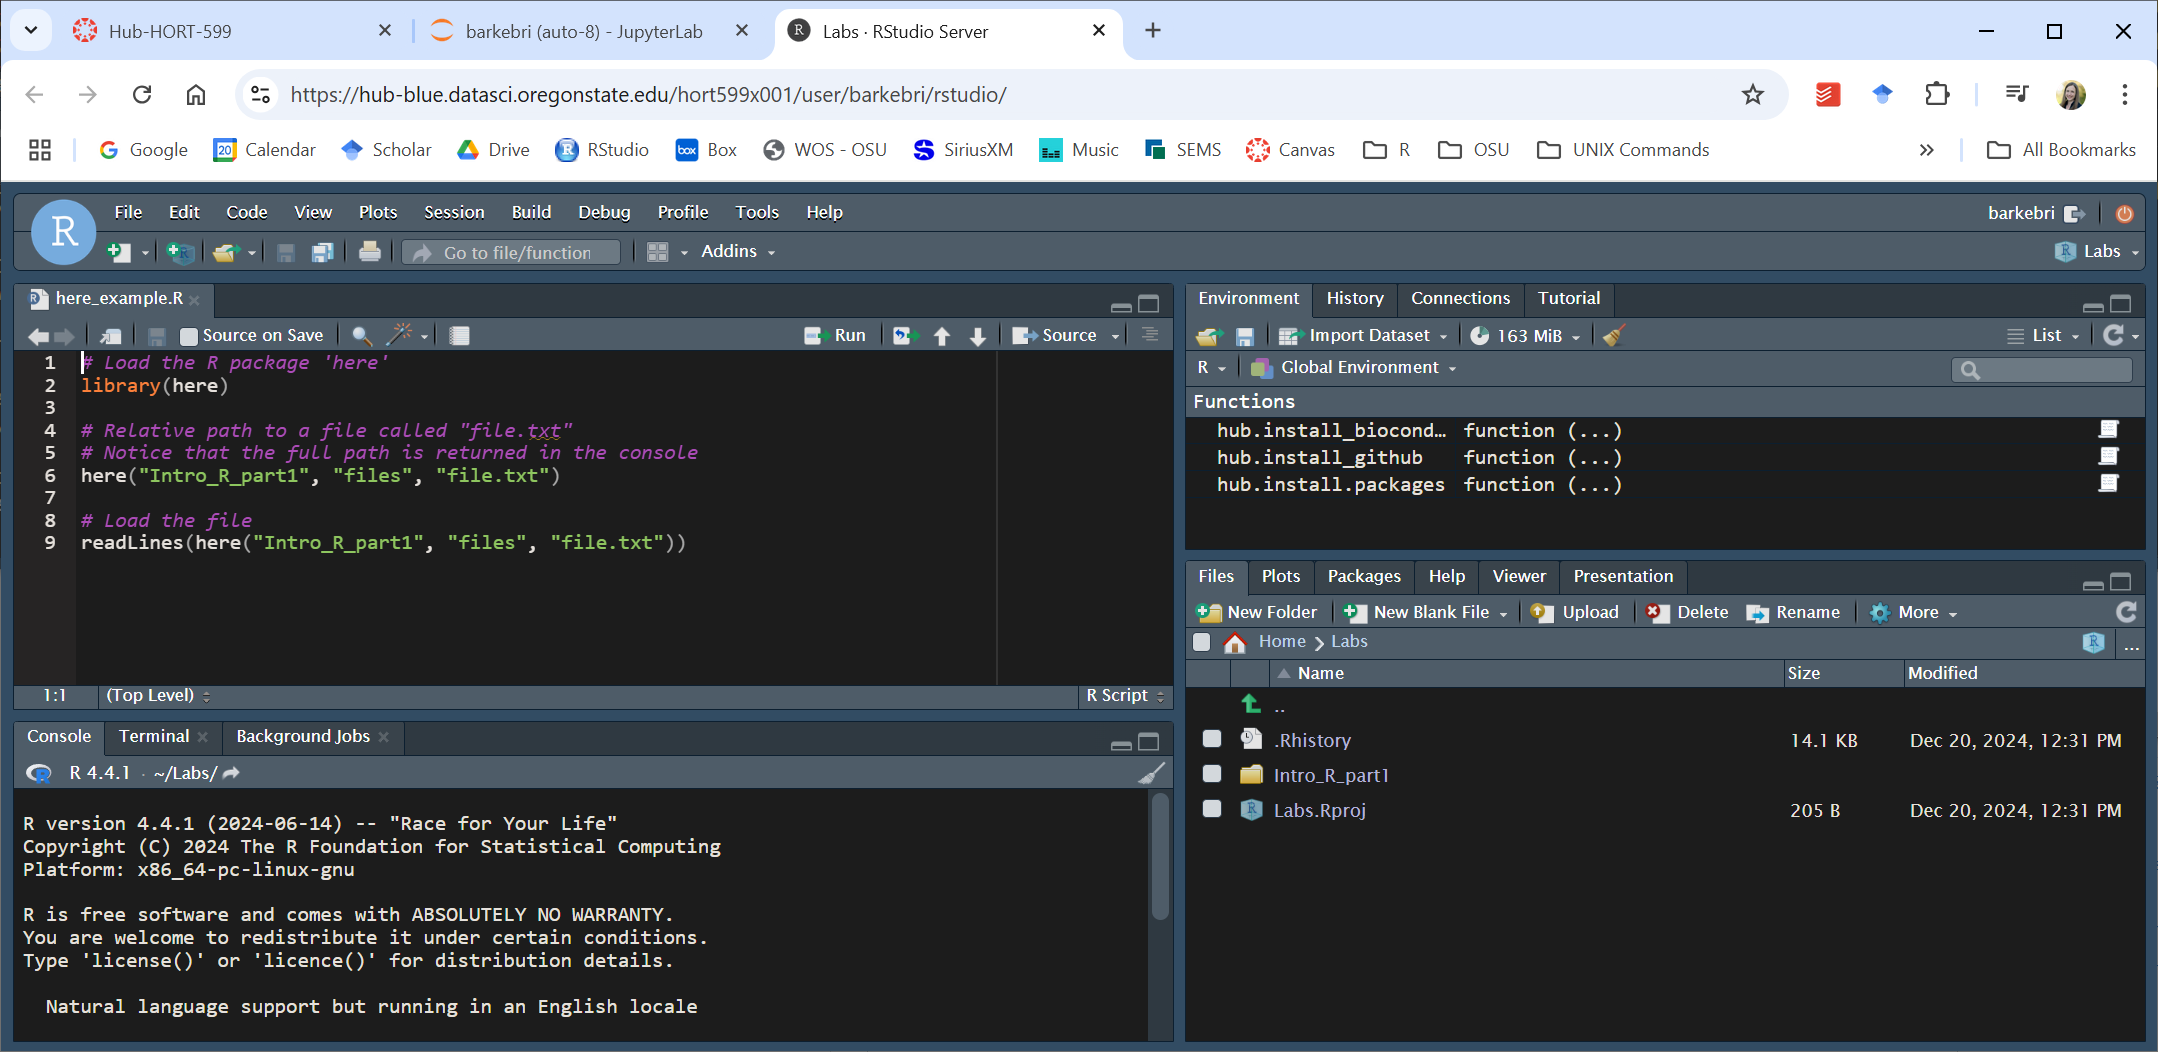
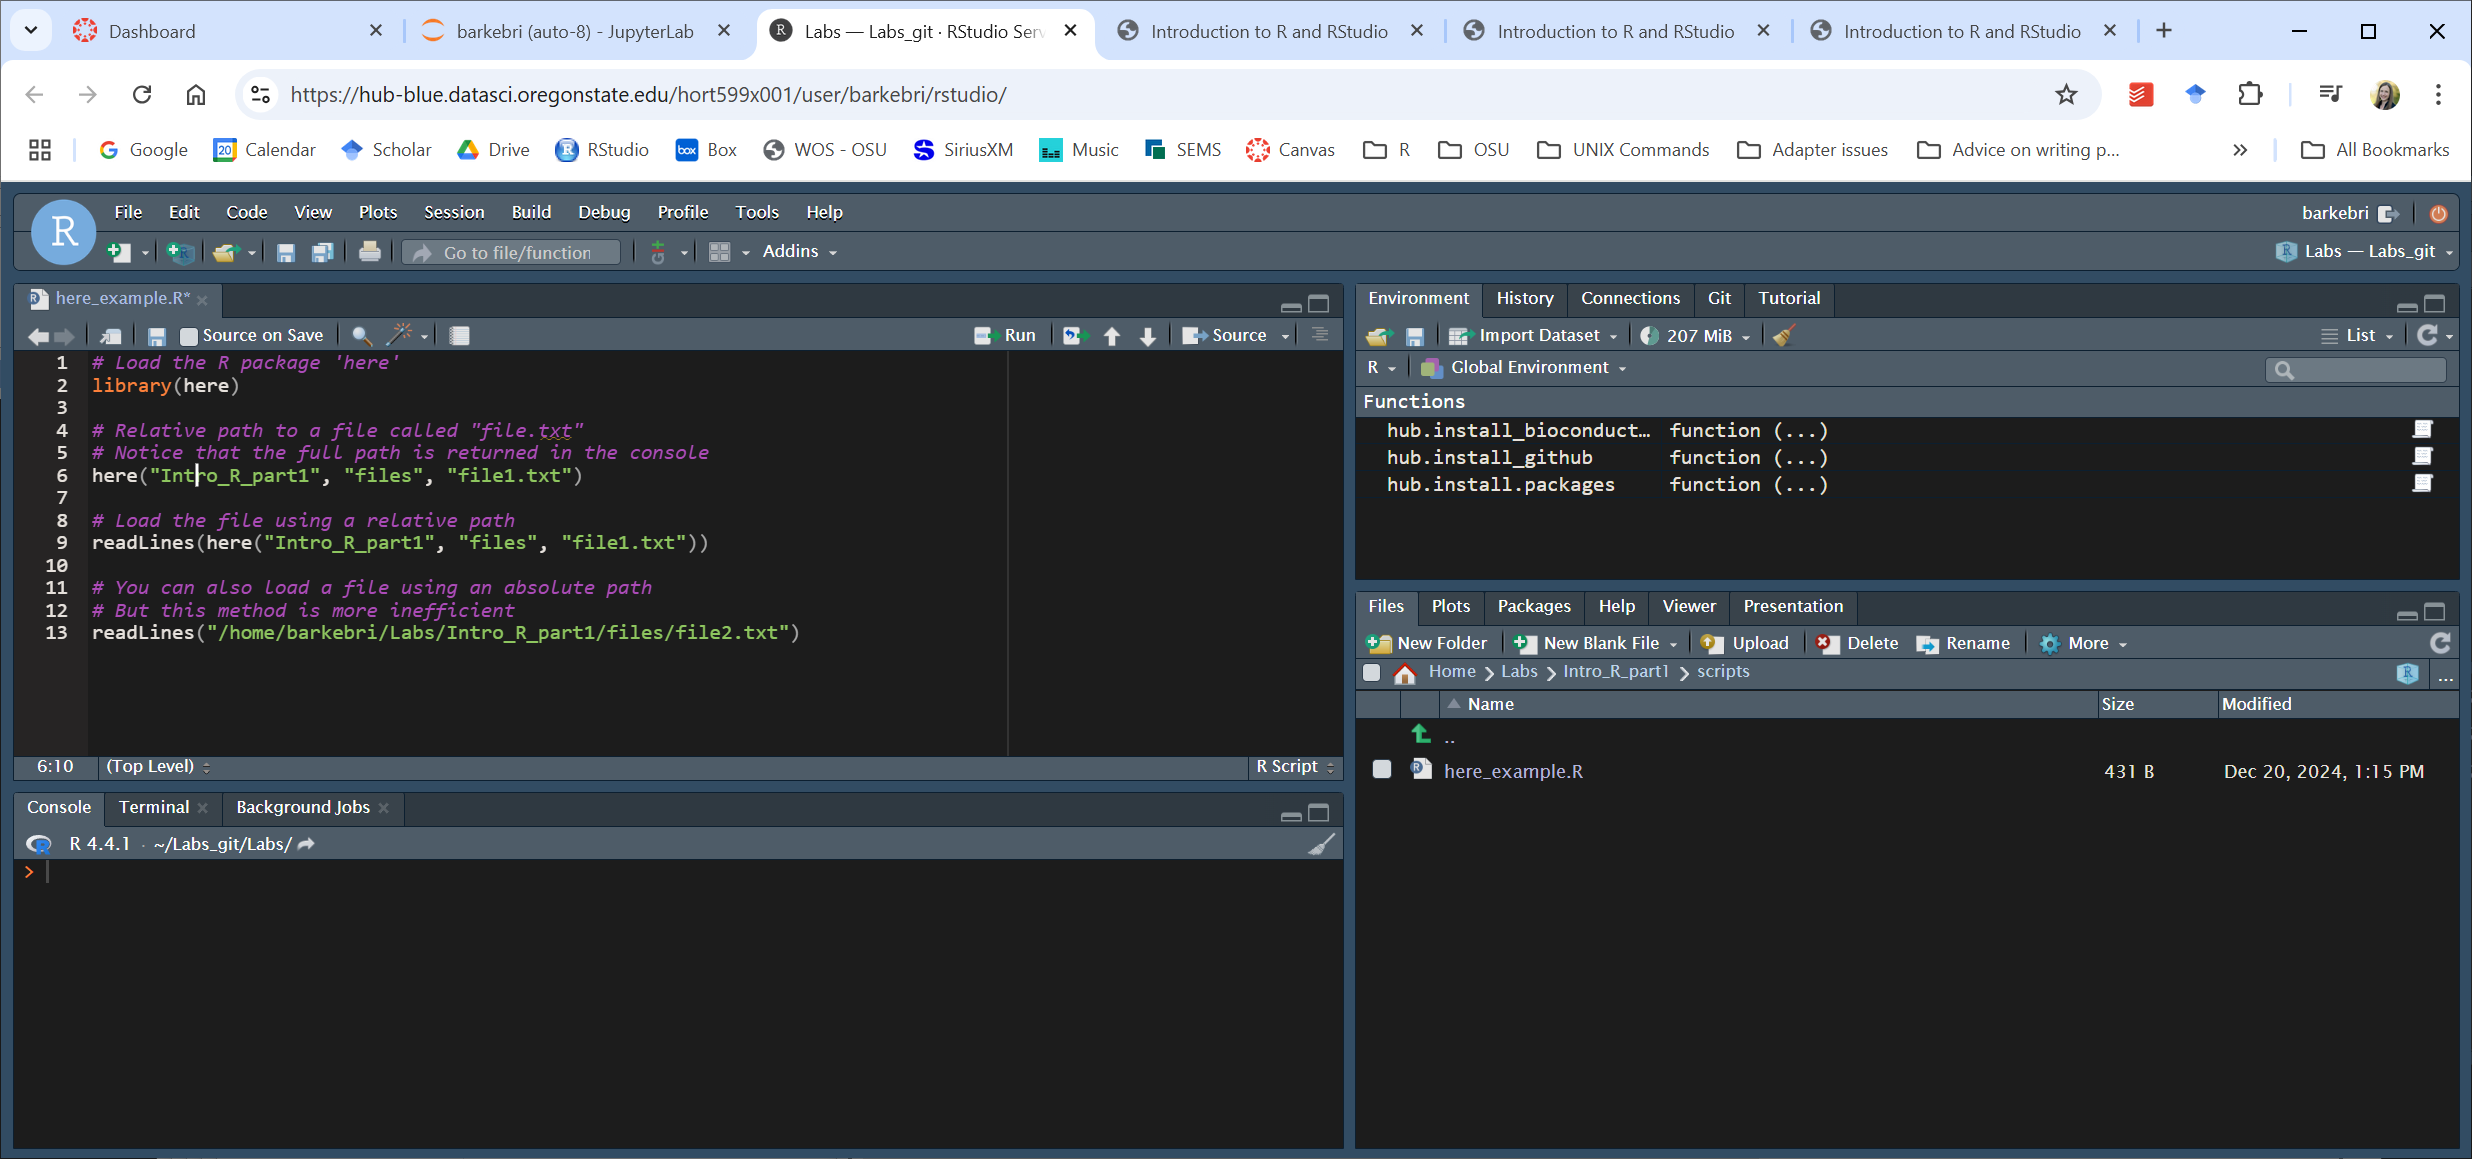
updates

Changed region(s): [[0.0, 0.0, 1.0, 1.0], [0.8383, 0.6996, 0.8693, 0.73]]

diff --git a/Intro_R_part1/Intro_to_R_part1.html b/Intro_R_part1/Intro_to_R_part1.html
@@ -585,7 +585,8 @@ Jan 6-10, 2025</p>
 <ul>
 <li>Everyone log on to <code>HORT599</code> in Canvas</li>
 </ul>
-</section>
+
+<img data-src="images/canvas_course.PNG" width="1360" class="r-stretch quarto-figure-left"></section>
 <section id="we-will-use-rstudio-on-jupyter-hub-at-osu-1" class="slide level2">
 <h2>We will use RStudio on Jupyter Hub at <a href="https://uit.oregonstate.edu/tsa/data-science">OSU</a></h2>
 <ul>
@@ -826,9 +827,9 @@ Jan 6-10, 2025</p>
 <section id="open-your-project-and-load-some-files-1" class="slide level2">
 <h2>Open your project and load some files</h2>
 <ul>
-<li>Your project may already open - check in the upper right corner<br>
+<li>We will be using the <code>Labs</code> project (<code>Labs.proj</code>) for all tutorials and lab assignments<br>
 </li>
-<li>If not, open your project (<code>Labs.proj</code>)</li>
+<li>In RStudio, if you’re project isn’t already open, click on <code>File</code> -&gt; <code>Open Project</code></li>
 </ul>
 
 <img data-src="images/JH_RStudio8.png" width="1079" class="r-stretch quarto-figure-left"></section>
@@ -855,26 +856,26 @@ Jan 6-10, 2025</p>
 <li>For this class, we will use the <code>here</code> package to use project-relative paths</li>
 </ul>
 
-<img data-src="images/JH_RStudio11.png" width="1079" class="r-stretch quarto-figure-left"></section>
+<img data-src="images/JH_RStudio11.png" width="1236" class="r-stretch quarto-figure-left"></section>
 <section id="the-here-package-1" class="slide level2">
 <h2>The <code>here</code> package</h2>
 <ul>
-<li>For this class, we will use the <code>here</code> package to use project-relative paths<br>
-</li>
 <li>Select all text in the script by pressing <code>Ctrl + A</code></li>
 <li>Click on the <code>Run</code> button on the Source pane</li>
 </ul>
 
-<img data-src="images/JH_RStudio12.png" width="1079" class="r-stretch quarto-figure-left"></section>
+<img data-src="images/JH_RStudio12.png" width="1236" class="r-stretch quarto-figure-left"></section>
 <section id="output-in-the-console-pane" class="slide level2">
 <h2>Output in the Console pane</h2>
 <ul>
-<li>Line 6 of the code was the project-relative path to <code>file.txt</code><br>
+<li>Line 6 of the code was the project-relative path to <code>file1.txt</code><br>
 </li>
-<li>Line 9 read the lines of <code>file.txt</code> using <code>readLines()</code> (see result in console)</li>
+<li>Line 9 read the lines of <code>file1.txt</code> using <code>readLines()</code> (see result in console)<br>
+</li>
+<li>The next lines read <code>file2.txt</code>, which uses an absolute path</li>
 </ul>
 
-<img data-src="images/JH_RStudio13.png" width="1079" class="r-stretch quarto-figure-left"><div class="footer footer-default">
+<img data-src="images/JH_RStudio13.png" width="1236" class="r-stretch quarto-figure-left"><div class="footer footer-default">
 
 </div>
 </section>
